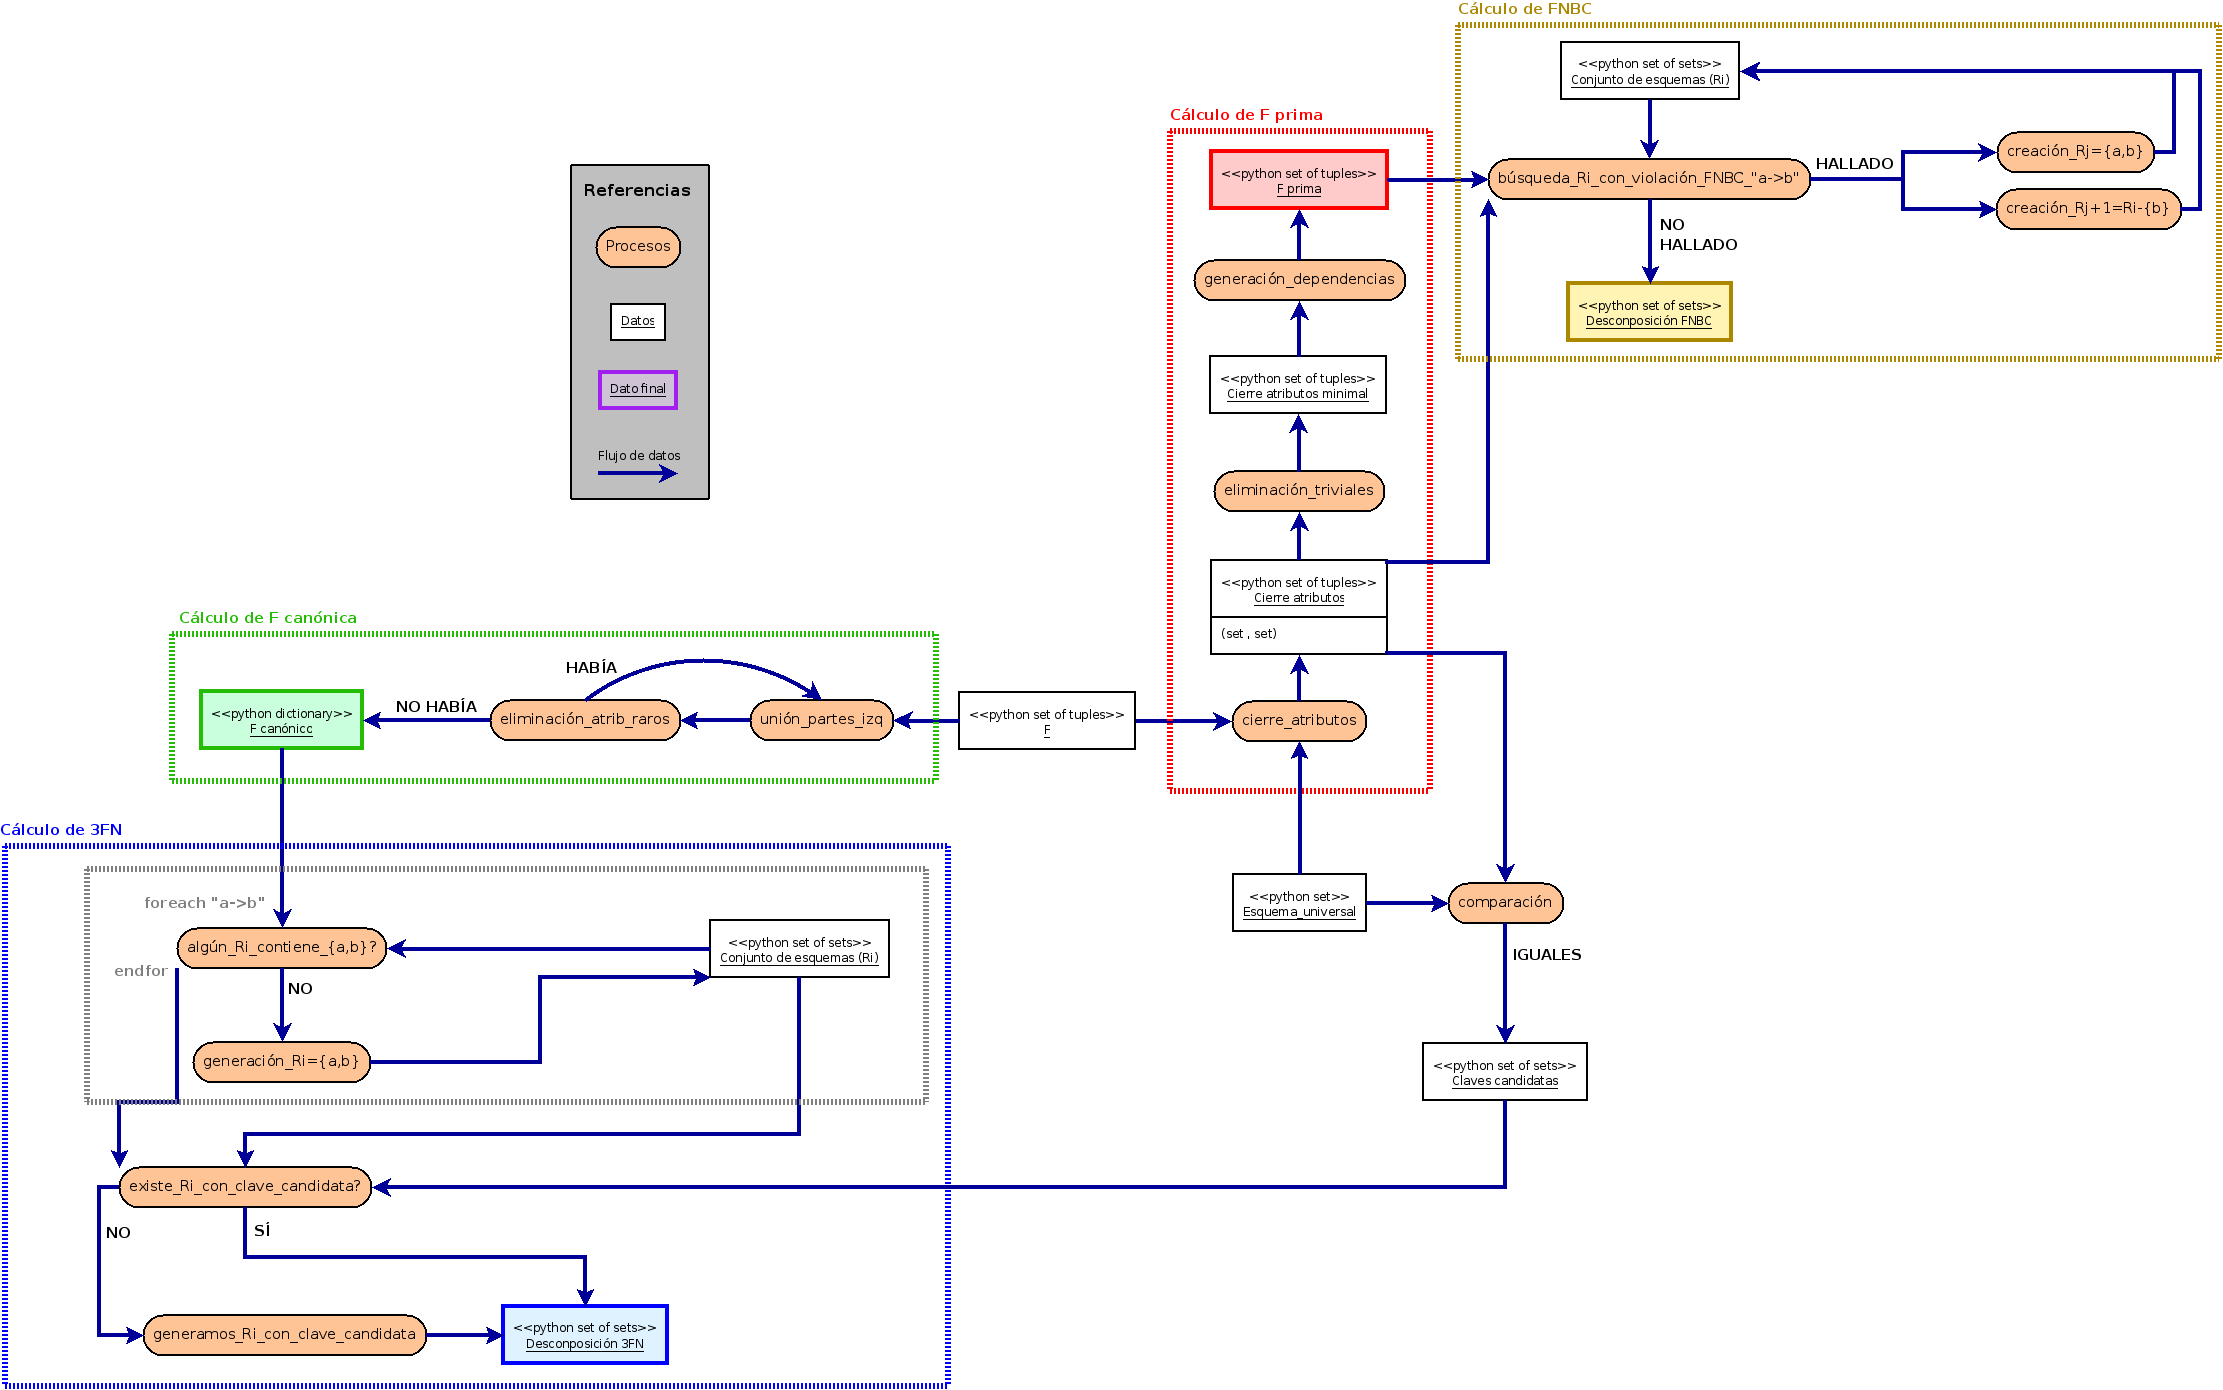
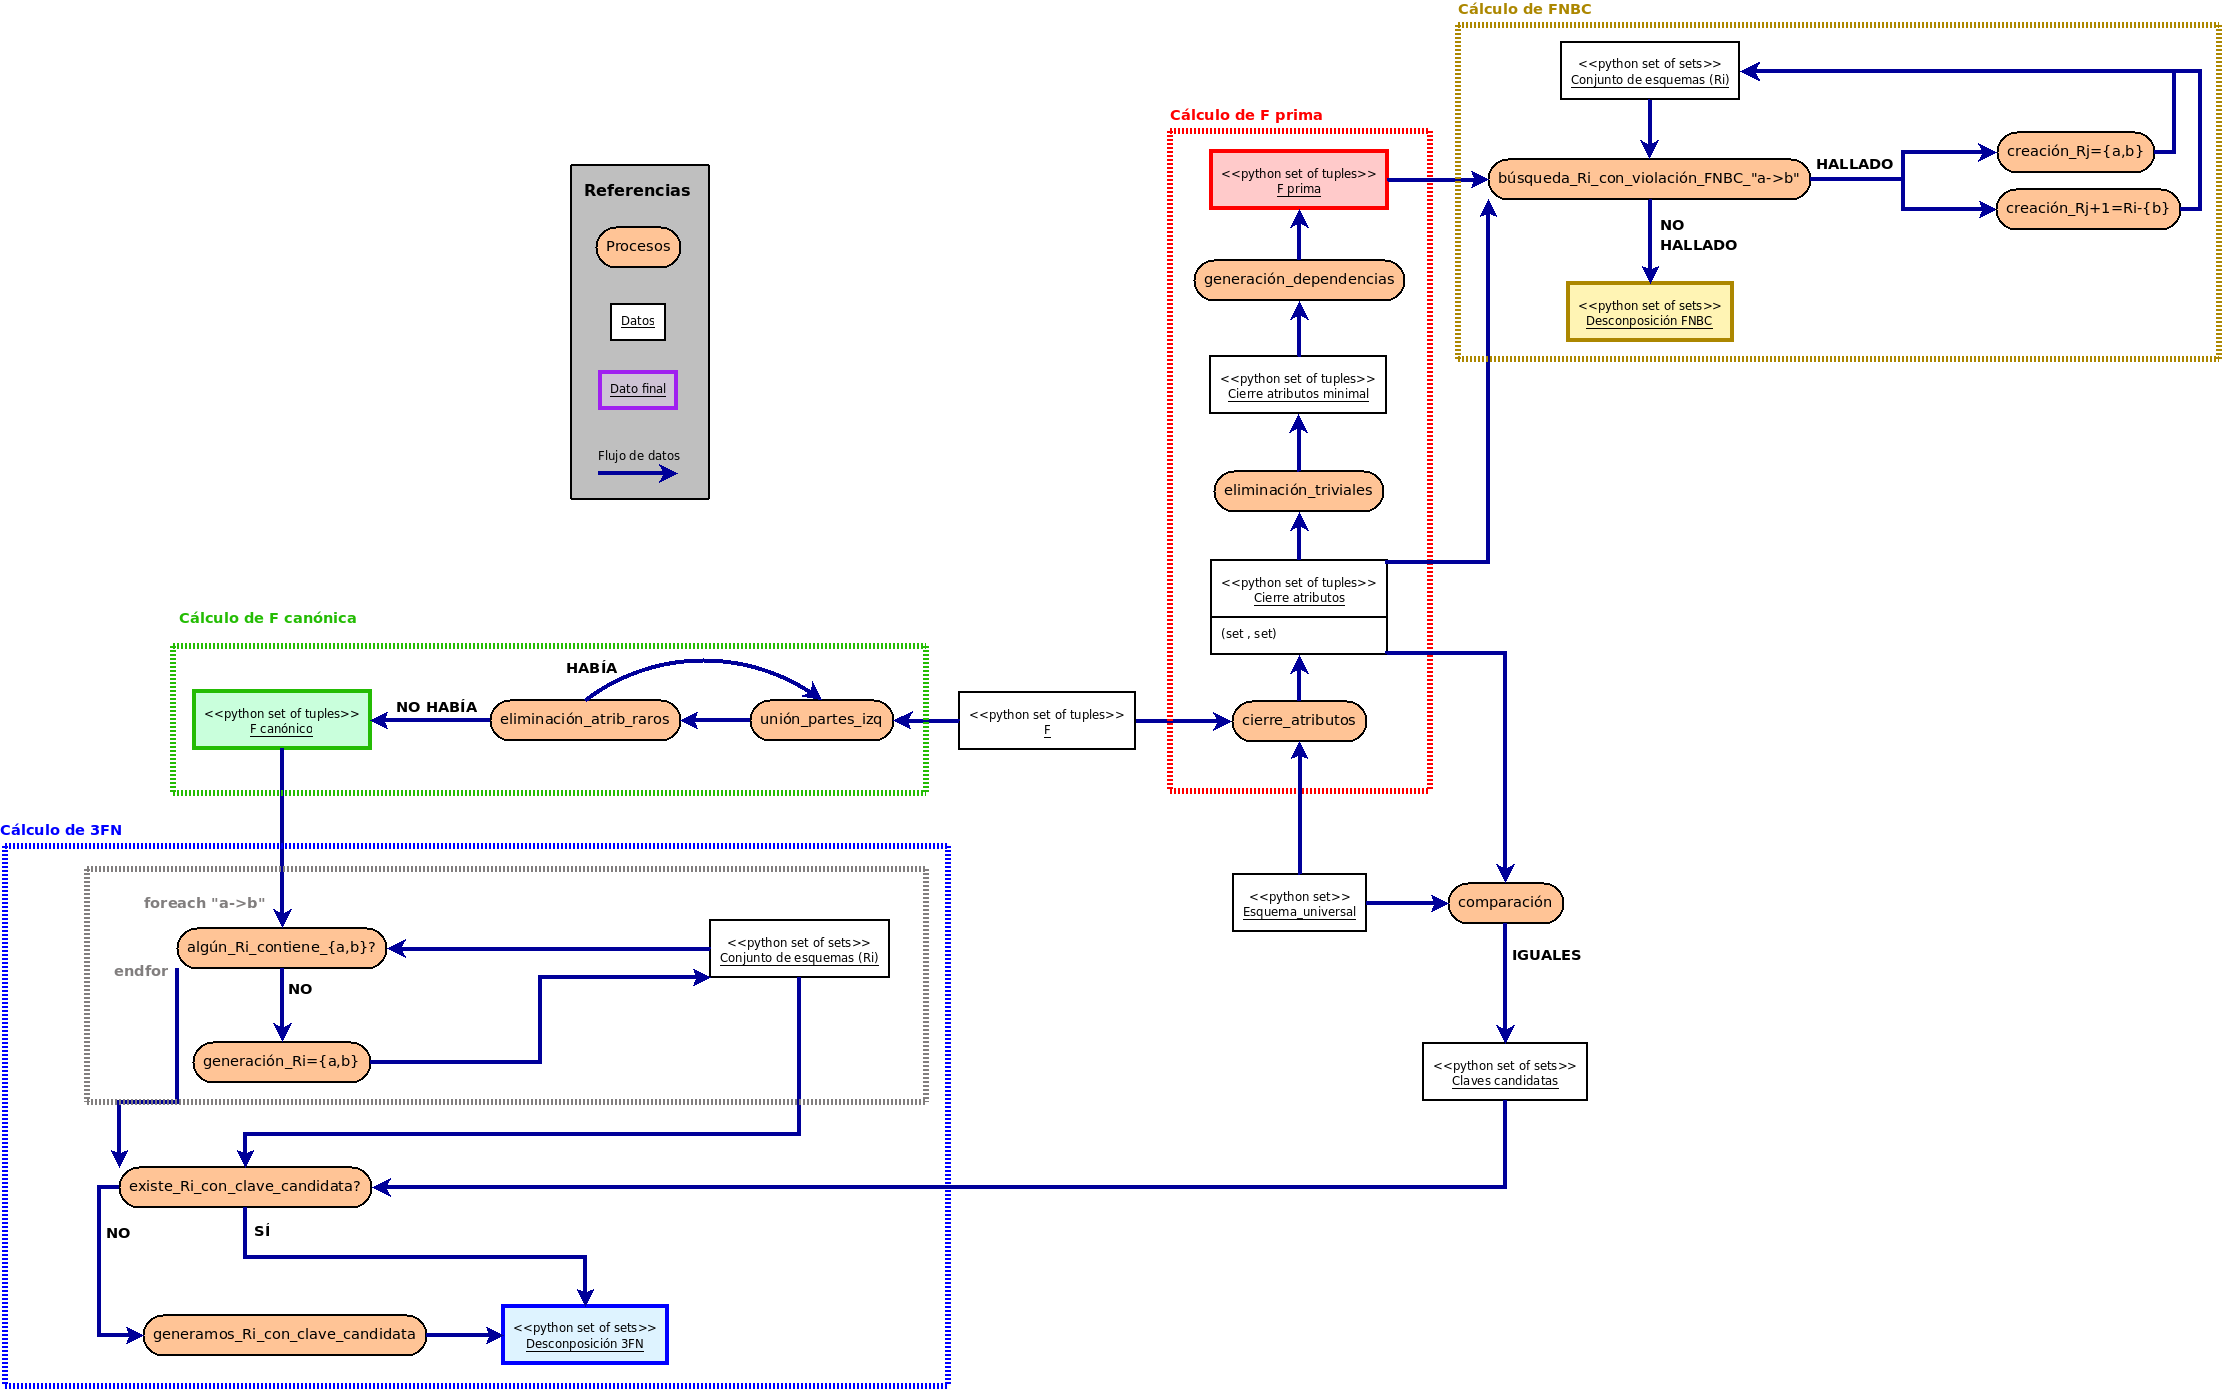
Modifique el diagrama por que con el aguso quedamos que le mando conjuntos de tuplas , asi no tengo que hacer ninguna transformacion. Subo la version final del modulo FC.py de recubrimiento canonico. NO LE TOQUEN NADA QUE ESTA PERFECT! cualquier cosa yo me hago cargo

diff --git a/base_datos/Segunda_Fase/FC.py b/base_datos/Segunda_Fase/FC.py
@@ -1,0 +1,75 @@
+#!/usr/bin/env python
+# -*- coding: utf-8 -*-
+#
+#       FC.py
+#       
+#       Copyright 2009 Drasky Vanderhoff <drasky.vanderhoff@gmail.com>
+#       
+#       This program is free software; you can redistribute it and/or modify
+#       it under the terms of the GNU General Public License as published by
+#       the Free Software Foundation; either version 2 of the License, or
+#       (at your option) any later version.
+#       
+#       This program is distributed in the hope that it will be useful,
+#       but WITHOUT ANY WARRANTY; without even the implied warranty of
+#       MERCHANTABILITY or FITNESS FOR A PARTICULAR PURPOSE.  See the
+#       GNU General Public License for more details.
+#       
+#       You should have received a copy of the GNU General Public License
+#       along with this program; if not, write to the Free Software
+#       Foundation, Inc., 51 Franklin Street, Fifth Floor, Boston,
+#       MA 02110-1301, USA.
+
+#	Utilize las operaciones sobre conj' 
+#	{|,&,-} == {unión,intersección,diferencia} las cuales solo devuelven
+#	un valor pero no modifican a los conjuntos sobre los que operan.
+
+def union_partes_izq(R,alfa,F):
+	
+	""" Fusiona todas las dependencias funcionales que tenga a alfa
+		como parte izquierda de la misma """
+		
+	for b1,b2 in R - set(alfa):
+		if (alfa,b1) in F and (alfa,b2) in F:
+			F.remove((alfa,b1))
+			F.remove((alfa,b2))
+			F.add((alfa,b1|b2))
+				 
+def atrib_raros_der(alfa,beta,R,F):
+	
+	""" Elimina y devuelve una lista de los atributos raros de beta """
+	  
+	raros = []
+	for A in beta:
+		# Parecera largo pero mas variables solo complica su escritura.
+		if A in cierre_atrib(alfa,(F-set((alfa,beta)))|set((alfa,beta-A)),R):
+			F.remove((alfa,beta))
+			F.add((alfa,beta-set(A)))
+			raros += [A]
+	return raros
+	
+def atrib_raros_izq(alfa,beta,R,F):
+	
+	""" Elimina y devuelve una lista de los atributos raros de alfa """
+	
+	raros = []
+	for A in alfa:
+		# Chequeamos beta subconjunto del cierre de atributos de alfa-A
+		if beta.issubset(cierre_atrib(alfa-set(A),F,R)):
+			F.remove((alfa,beta))
+			F.add((alfa-set(A),beta))
+			raros += [A]
+	return raros
+						
+def FC(F,R):
+	res = F.copy() # Copio F para modificarlo a gusto.
+	raros = ["I ALWAYS WANT TO BE A LUMBERJACK"] # Inicialización
+	
+	while len(raros) > 0 :# Mientras obtengamos atributos raros 
+		raros = []
+		for alfa in R: # Realizo todas las uniones para cada alfa
+			union_partes_izq(R,alfa,res)
+			for beta in R: # Agrego los atributos raros de cada beta
+				raros += atrib_raros_izq(alfa,beta,R,res)+atrib_raros_der(alfa,beta,R,res)
+
+	return res
